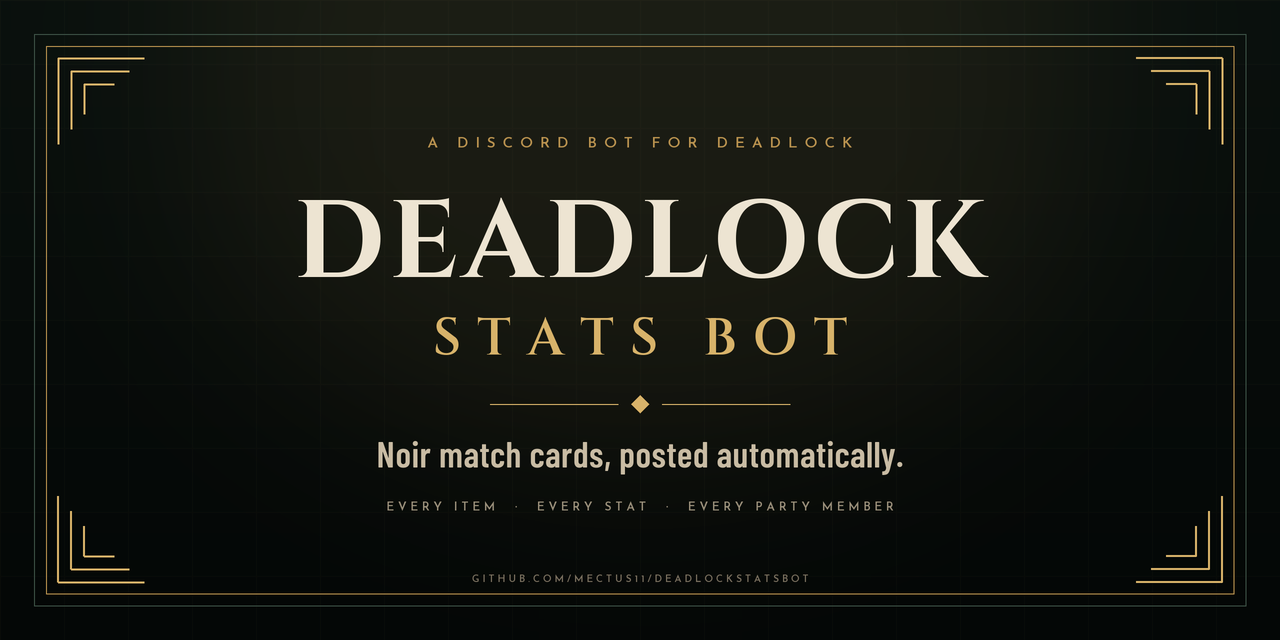
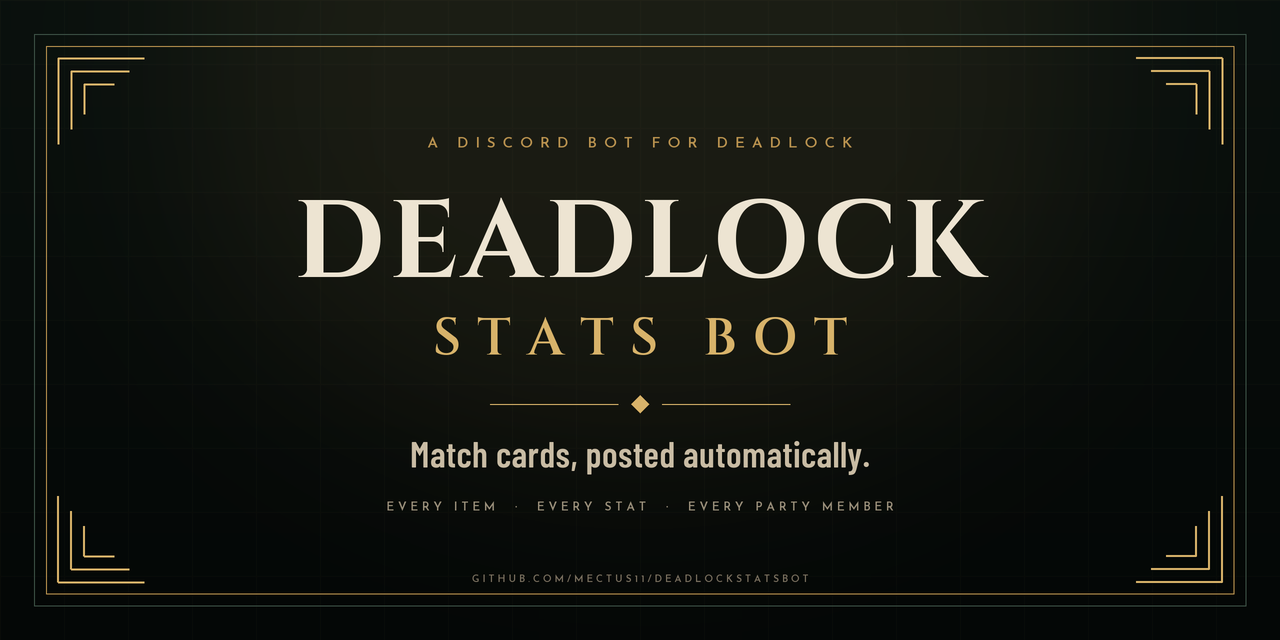
use the Rem mark and drop the noir wording
New logo from the 3D Rem art: 512px Discord avatar and site icon, shown beside the wordmark; social preview regenerated without the noir line.

Changed region(s): [[0.2812, 0.6875, 0.7188, 0.75]]

diff --git a/docs/index.html b/docs/index.html
@@ -3,13 +3,13 @@
 <head>
 <meta charset="utf-8">
 <meta name="viewport" content="width=device-width, initial-scale=1">
-<title>Deadlock Stats Bot — noir match cards for Discord</title>
+<title>Deadlock Stats Bot — match cards for Discord</title>
 <meta name="description" content="Art Deco match cards for Deadlock, posted to Discord automatically. Every item, every stat, every party member, plus overall stats, match lists and patch notes.">
 <meta name="theme-color" content="#0a110e">
 <link rel="canonical" href="https://mectus11.github.io/deadlockstatsbot/">
 <meta property="og:type" content="website">
 <meta property="og:title" content="Deadlock Stats Bot">
-<meta property="og:description" content="Noir, Art Deco match cards for Deadlock — posted to Discord automatically.">
+<meta property="og:description" content="Art Deco match cards for Deadlock — posted to Discord automatically.">
 <meta property="og:url" content="https://mectus11.github.io/deadlockstatsbot/">
 <meta property="og:image" content="https://mectus11.github.io/deadlockstatsbot/social-preview.png">
 <meta property="og:image:width" content="1280">
@@ -30,7 +30,7 @@
 <header class="site-header">
   <div class="wrap header-inner">
     <a class="brand" href="#top" aria-label="Deadlock Stats Bot, back to top">
-      <span class="brand-mark" aria-hidden="true"></span>
+      <img class="brand-mark" src="icon.png" width="26" height="26" alt="" aria-hidden="true">
       <span>
         <span class="brand-name">Deadlock</span>
         <span class="brand-sub">Stats Bot</span>
@@ -50,7 +50,7 @@
 
   <div class="wrap hero" id="top">
     <p class="kicker">Deadlock stats bot</p>
-    <h1>Noir match cards,<br><em>posted automatically.</em></h1>
+    <h1>Match cards,<br><em>posted automatically.</em></h1>
     <p class="lede">Every item, every stat, every party member. Your Deadlock matches arrive in Discord as Art Deco case files — ranked, standard, brawl or bot.</p>
     <div class="actions">
       <a class="btn" href="https://discord.com/oauth2/authorize?client_id=1567848725869629480&amp;scope=bot+applications.commands&amp;permissions=309237763072">Add to Discord</a>
@@ -247,7 +247,7 @@ python bot.py</code></pre>
   <div class="wrap">
     <div class="footer-inner">
       <div class="footer-brand">
-        <span class="brand-mark" aria-hidden="true"></span>
+        <img class="brand-mark" src="icon.png" width="20" height="20" alt="" aria-hidden="true">
         Deadlock Stats Bot
       </div>
       <nav class="footer-links" aria-label="Project links">

diff --git a/docs/style.css b/docs/style.css
@@ -1,5 +1,5 @@
 /* Deadlock Stats Bot — theme v2 website.
-   1940s New York noir, Art Deco brasswork, absinthe shadow.
+   Art Deco brasswork, absinthe shadow.
    Tokens mirror theme.py so the page and the rendered cards stay one family. */
 
 @font-face {
@@ -178,24 +178,14 @@ a:hover {
 }
 
 .brand-mark {
-  position: relative;
-  width: 22px;
-  height: 22px;
+  width: 26px;
+  height: 26px;
   flex: none;
 }
 
-.brand-mark::before,
-.brand-mark::after {
-  content: "";
-  position: absolute;
-  inset: 4px;
-  transform: rotate(45deg);
-  border: 1px solid var(--brass);
-}
-
-.brand-mark::after {
-  inset: 9px;
-  background: var(--gold);
+.footer-brand .brand-mark {
+  width: 20px;
+  height: 20px;
 }
 
 .brand-name {

diff --git a/README.md b/README.md
@@ -3,7 +3,7 @@
 </div>
 
 <p align="center">
-  <strong>Noir, art-deco match cards for Deadlock — posted to Discord automatically.</strong><br>
+  <strong>Art-deco match cards for Deadlock — posted to Discord automatically.</strong><br>
   Every item, every stat, every party member. Plus overall stats, recent-match lists and patch notes.
 </p>
 
